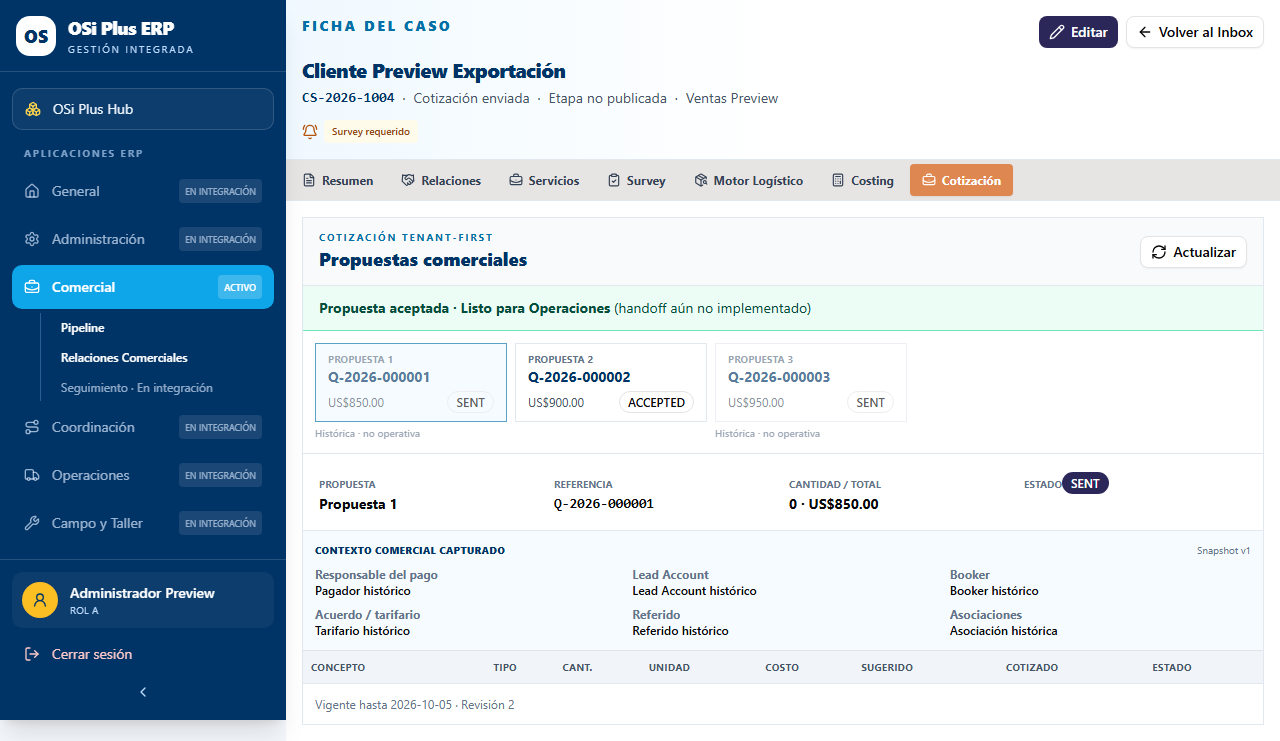
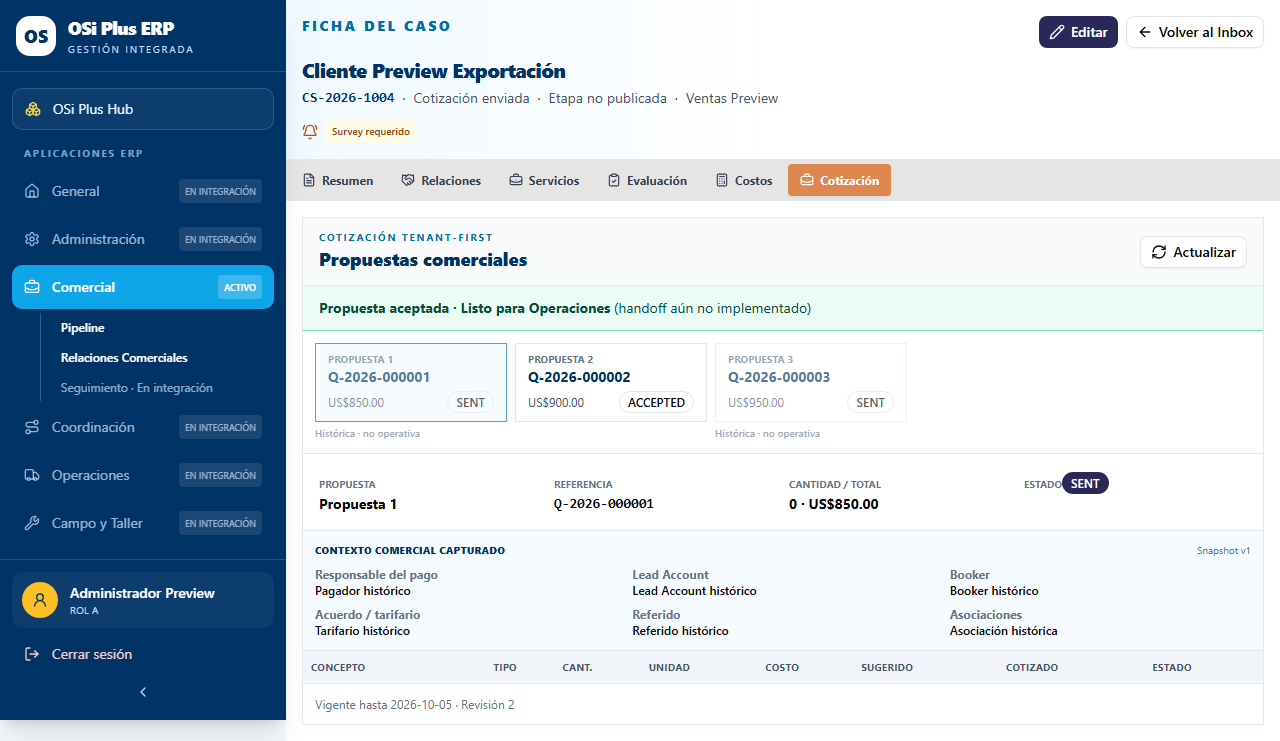
test(preview): guard transversal logistics navigation

Changed region(s): [[0.5, 0.2173, 0.8125, 0.2794]]

diff --git a/tests/v17-logistics-engine/logistics-engine.spec.ts b/tests/v17-logistics-engine/logistics-engine.spec.ts
@@ -1,10 +1,50 @@
 import { expect, test, type Page } from "@playwright/test";
-const CASE_REF = "038f6d8f-8d11-4f39-8a2d-1b6c7e8f9012"; const MEMBERSHIP_REF = "048f6d8f-8d11-4f39-8a2d-1b6c7e8f9012"; const PLAN_REF = "138f6d8f-8d11-4f39-8a2d-1b6c7e8f9012"; const REVISION_REF = "238f6d8f-8d11-4f39-8a2d-1b6c7e8f9012"; const ITEM_REF = "338f6d8f-8d11-4f39-8a2d-1b6c7e8f9012"; const CALC_REF = "438f6d8f-8d11-4f39-8a2d-1b6c7e8f9012";
+
+const CASE_REF = "018f6d8f-8d11-4f39-8a2d-1b6c7e8f9012";
+const MEMBERSHIP_REF = "028f6d8f-8d11-4f39-8a2d-1b6c7e8f9012";
 const logisticsPermissions = ["logistics:plan:view", "logistics:plan:calculate", "logistics:plan:publish", "logistics:plan:tenant", "logistics:plan:override", "logistics:plan:resolve", "logistics:rules:view", "logistics:rules:manage"];
-async function session(page: Page, options: { deny?: boolean; admin?: boolean } = {}) { const permissions = options.deny ? ["pipeline:view"] : ["pipeline:view", ...logisticsPermissions, ...(options.admin ? ["membership:view", "membership:update:role", "membership:update:permissions", "membership:update:status"] : [])]; const deniedPermissions = options.deny ? ["logistics:plan:view"] : []; await page.addInitScript(({ membershipRef }) => { localStorage.setItem("osi-plus.token", "synthetic.logistics.token"); localStorage.setItem("osi-plus.session", JSON.stringify({ name: "Logística sintética", role: "A", membershipRef, memberships: [{ membershipRef, tenantName: "Tenant sintético", role: "A", preferred: true }] })); }, { membershipRef: MEMBERSHIP_REF }); await page.route("**/api/auth/me", (route) => route.fulfill({ status: 200, contentType: "application/json", body: JSON.stringify({ ok: true, user: { name: "Logística sintética", role: "A", status: "ACTIVE", permissions, deniedPermissions, membership: { membershipRef: MEMBERSHIP_REF, tenantName: "Tenant sintético", role: "A" }, memberships: [{ membershipRef: MEMBERSHIP_REF, tenantName: "Tenant sintético", role: "A", preferred: true }] } }) })); }
-async function crm(page: Page) { const headers = { "Cache-Control": "private, no-store", Vary: "Authorization, Origin" }; const byStatus = Object.fromEntries(["NEW_INBOX", "AWAITING_ICP", "GOVERNANCE_CONFIRMED", "REQUIREMENTS_CONFIRMED", "SURVEY_PLANNING", "SURVEY_SCHEDULED", "SURVEY_COMPLETED", "CRATING_ESTIMATE_PENDING", "PRICING_IN_PROGRESS", "QUOTE_DRAFT", "INTERNAL_REVIEW", "QUOTE_SENT", "NEGOTIATION", "WON", "LOST", "CHANGE_CONTROL", "APPROVED", "OPS_HANDOFF"].map((status) => [status, 0])); await page.route(/\/api\/crm\/pipeline-cases(?:\?.*)?$/, (route) => route.fulfill({ status: 200, contentType: "application/json", headers, body: JSON.stringify({ ok: true, data: [], total: 0, page: 1, pageSize: 25 }) })); await page.route("**/api/crm/pipeline-summary", (route) => route.fulfill({ status: 200, contentType: "application/json", headers, body: JSON.stringify({ ok: true, data: { total: 0, assigned: 0, unassigned: 0, byStatus, sla: { overdue: null, basis: "UNAVAILABLE" } } }) })); await page.route("**/api/crm/pipeline-cases/**", (route) => route.fulfill({ status: 200, contentType: "application/json", headers, body: JSON.stringify({ ok: true, data: { caseRef: CASE_REF, caseCode: "CS-2026-0701", version: 1, status: "SURVEY_COMPLETED", mode: "LOCAL", serviceType: "MOVING_LOCAL", customerType: "L4_PERSONAL", estimatedCbm: 20, requiresSurvey: true, surveyMethod: "PRESENCIAL", originLocation: "Origen estructurado", destinationLocation: "Destino estructurado", destinationContracted: true, assetsCount: 0, quoteCount: 0, eventCount: 2, client: { clientRef: "528f6d8f-8d11-4f39-8a2d-1b6c7e8f9012", displayName: "Cliente relacional", type: "INDIVIDUAL", status: "ACTIVE" }, owner: { displayName: "Logística sintética", isCurrentActor: true }, createdAt: "2026-09-08T12:00:00.000Z", updatedAt: "2026-09-08T12:00:00.000Z" } }) })); }
-const item = { itemRef: ITEM_REF, family: "LABOR", kind: "PACKER", label: "Empacadores", quantity: 2, unit: "persona", estimatedHours: 6, trips: null, requiredQuantity: 2, availableQuantity: null, reservedQuantity: 0, shortageQuantity: null, availability: "NOT_APPLICABLE", priceStatus: "NOT_APPLICABLE", source: "ADMIN_RULE", sourceVersion: 3 };
-const issue = { issueRef: "638f6d8f-8d11-4f39-8a2d-1b6c7e8f9012", code: "DISTANCE_PENDING", severity: "WARNING", family: "TRANSPORT", message: "La distancia continúa pendiente de una fuente autorizada.", source: "ROUTE", status: "OPEN", version: 1 };
-test("resumen, simulación, blockers, publicación y override auditable", async ({ page }) => { await session(page); await crm(page); let published = false; let overrideCalls = 0; await page.route(`**/api/logistics/plans/${CASE_REF}`, (route) => route.fulfill({ status: 200, contentType: "application/json", body: JSON.stringify({ ok: true, data: published ? { planRef: PLAN_REF, revisionRef: REVISION_REF, revision: 1, status: "PUBLISHED", logicalSha256: "a".repeat(64), publishedAt: "2026-09-08T12:00:00.000Z", items: [item], issues: [issue], overrides: [] } : null }) })); await page.route("**/api/logistics/plans/calculate", (route) => route.fulfill({ status: 201, contentType: "application/json", body: JSON.stringify({ ok: true, data: { calculationRef: CALC_REF, status: "VALID", inputHash: "b".repeat(64), resultHash: "c".repeat(64), availabilityObservedAt: "2026-09-08T12:00:00.000Z", result: { items: [item, { ...item, family: "MATERIAL", kind: "MATERIAL_REQUIREMENT", label: "Cartón", quantity: 8, unit: "UND", requiredQuantity: 8, availableQuantity: 6, reservedQuantity: 2, shortageQuantity: 4, availability: "UNAVAILABLE", source: "INVENTORY", sourceVersion: 1 }], issues: [{ ...issue, severity: "BLOCKER", code: "MATERIAL_SHORTAGE", message: "El inventario disponible no cubre el material requerido." }] } } }) })); await page.route("**/api/logistics/plans/publish", (route) => { published = true; return route.fulfill({ status: 201, contentType: "application/json", body: JSON.stringify({ ok: true, data: { planRef: PLAN_REF, revisionRef: REVISION_REF, revision: 1, status: "PUBLISHED", logicalSha256: "a".repeat(64), publishedAt: "2026-09-08T12:00:00.000Z", items: [item], issues: [issue], overrides: [] } }) }); }); await page.route("**/api/logistics/plans/overrides", async (route) => { const payload = route.request().postDataJSON(); expect(payload.revisionRef).toBe(REVISION_REF); expect(payload.itemRef).toBe(ITEM_REF); expect(payload.expectedSuggested).toEqual({ quantity: 2, estimatedHours: 6, trips: null }); expect(payload.finalValue).toEqual({ quantity: 3 }); expect(payload.reason).toBe("Necesidad operativa confirmada"); overrideCalls += 1; await route.fulfill({ status: 201, contentType: "application/json", body: JSON.stringify({ ok: true, data: { overrideRef: "538f6d8f-8d11-4f39-8a2d-1b6c7e8f9012" } }) }); }); await page.goto(`/commercial/cases/${CASE_REF}`); await page.getByRole("tab", { name: "Motor Logístico" }).click(); await expect(page.getByTestId("logistics-plan-panel")).toBeVisible(); await page.getByRole("button", { name: "Calcular" }).click(); await expect(page.getByText(/Simulación calculada/)).toBeVisible(); await expect(page.getByText("MATERIAL_SHORTAGE")).toBeVisible(); await page.getByRole("button", { name: "Publicar revisión" }).click(); await expect(page.getByText(/Plan publicado · revisión 1/)).toBeVisible(); await page.getByRole("button", { name: "Ajustar sugerencia" }).click(); await page.getByLabel("Cantidad final").fill("3"); await page.getByLabel("Justificación").fill("Necesidad operativa confirmada"); await page.getByRole("button", { name: "Registrar ajuste" }).click(); await expect(page.getByText(/Ajuste registrado/)).toBeVisible(); expect(overrideCalls).toBe(1); expect(await page.evaluate(() => document.documentElement.scrollWidth - document.documentElement.clientWidth)).toBeLessThanOrEqual(1); });
-test("Administración presenta y versiona reglas compactas por familia", async ({ page }) => { await session(page, { admin: true }); await page.route("**/api/admin/memberships**", (route) => route.fulfill({ status: 200, contentType: "application/json", body: JSON.stringify({ ok: true, data: [], total: 0, page: 1, pageSize: 20 }) })); let versioned = false; await page.route("**/api/logistics/rules", async (route) => { if (route.request().method() === "POST") { versioned = true; return route.fulfill({ status: 201, contentType: "application/json", body: JSON.stringify({ ok: true, data: { ruleRef: "938f6d8f-8d11-4f39-8a2d-1b6c7e8f9012", version: 3 } }) }); } return route.fulfill({ status: 200, contentType: "application/json", body: JSON.stringify({ ok: true, data: [{ ruleRef: "738f6d8f-8d11-4f39-8a2d-1b6c7e8f9012", seriesRef: "838f6d8f-8d11-4f39-8a2d-1b6c7e8f9012", family: "TRANSPORT", code: "TRUCK_BY_VOLUME", name: "Camión por volumen", priority: 100, specificity: 20, conditions: { modes: ["LOCAL"] }, result: { kind: "TRUCK", label: "Camión", quantity: 1 }, state: "ACTIVE", version: 2 }] }) }); }); await page.goto("/administration"); await expect(page.getByTestId("logistics-rules-admin")).toBeVisible(); await page.getByLabel("Familia logística").selectOption("TRANSPORT"); await expect(page.getByText("TRUCK_BY_VOLUME")).toBeVisible(); await page.getByRole("button", { name: "Nueva versión" }).click(); await expect(page.getByTestId("logistics-rule-form")).toBeVisible(); await page.getByRole("button", { name: "Crear nueva versión" }).click(); await expect.poll(() => versioned).toBe(true); });
-test("deny no monta el Motor ni solicita APIs logísticas", async ({ page }) => { await session(page, { deny: true }); await crm(page); let requests = 0; page.on("request", (request) => { if (new URL(request.url()).pathname.startsWith("/api/logistics/")) requests += 1; }); await page.goto(`/commercial/cases/${CASE_REF}`); await expect(page.getByRole("tab", { name: "Motor Logístico" })).toHaveCount(0); expect(requests).toBe(0); const chunks = await page.evaluate(() => performance.getEntriesByType("resource").map((entry) => entry.name).filter((name) => name.includes("LogisticsPlanPanel"))); expect(chunks).toHaveLength(0); });
+const headers = { "Cache-Control": "private, no-store", Vary: "Authorization, Origin" };
+
+async function session(page: Page, options: { deny?: boolean; admin?: boolean; withoutRules?: boolean } = {}) {
+  const permissions = options.deny ? ["pipeline:view"] : ["pipeline:view", ...(options.withoutRules ? [] : logisticsPermissions), ...(options.admin ? ["membership:view", "membership:update:role", "membership:update:permissions", "membership:update:status"] : [])];
+  const deniedPermissions = options.deny ? ["logistics:plan:view"] : [];
+  await page.addInitScript(({ membershipRef }) => { localStorage.setItem("osi-plus.token", "synthetic.logistics.token"); localStorage.setItem("osi-plus.session", JSON.stringify({ name: "Logística sintética", role: "A", membershipRef, memberships: [{ membershipRef, tenantName: "Tenant sintético", role: "A", preferred: true }] })); }, { membershipRef: MEMBERSHIP_REF });
+  await page.route("**/api/auth/me", (route) => route.fulfill({ status: 200, contentType: "application/json", body: JSON.stringify({ ok: true, user: { name: "Logística sintética", role: "A", status: "ACTIVE", permissions, deniedPermissions, membership: { membershipRef: MEMBERSHIP_REF, tenantName: "Tenant sintético", role: "A" }, memberships: [{ membershipRef: MEMBERSHIP_REF, tenantName: "Tenant sintético", role: "A", preferred: true }] } }) }));
+}
+
+async function crm(page: Page) {
+  const byStatus = Object.fromEntries(["NEW_INBOX", "AWAITING_ICP", "GOVERNANCE_CONFIRMED", "REQUIREMENTS_CONFIRMED", "SURVEY_PLANNING", "SURVEY_SCHEDULED", "SURVEY_COMPLETED", "CRATING_ESTIMATE_PENDING", "PRICING_IN_PROGRESS", "QUOTE_DRAFT", "INTERNAL_REVIEW", "QUOTE_SENT", "NEGOTIATION", "WON", "LOST", "CHANGE_CONTROL", "APPROVED", "OPS_HANDOFF"].map((status) => [status, 0]));
+  await page.route(/\/api\/crm\/pipeline-cases(?:\?.*)?$/, (route) => route.fulfill({ status: 200, contentType: "application/json", headers, body: JSON.stringify({ ok: true, data: [], total: 0, page: 1, pageSize: 25 }) }));
+  await page.route("**/api/crm/pipeline-summary", (route) => route.fulfill({ status: 200, contentType: "application/json", headers, body: JSON.stringify({ ok: true, data: { total: 0, assigned: 0, unassigned: 0, byStatus, sla: { overdue: null, basis: "UNAVAILABLE" } } }) }));
+  const detail = { caseRef: CASE_REF, caseCode: "CS-2026-0701", version: 1, status: "SURVEY_COMPLETED", mode: "LOCAL", serviceType: "MOVING_LOCAL", customerType: "L4_PERSONAL", estimatedCbm: 20, requiresSurvey: true, surveyMethod: "PRESENCIAL", originLocation: "Origen estructurado", destinationLocation: "Destino estructurado", destinationContracted: true, assetsCount: 0, quoteCount: 0, eventCount: 2, client: { clientRef: "528f6d8f-8d11-4f39-8a2d-1b6c7e8f9012", displayName: "Cliente relacional", type: "INDIVIDUAL", status: "ACTIVE" }, owner: { displayName: "Logística sintética", isCurrentActor: true }, createdAt: "2026-09-08T12:00:00.000Z", updatedAt: "2026-09-08T12:00:00.000Z" };
+  await page.route(`**/api/crm/pipeline-cases/${CASE_REF}`, (route) => route.fulfill({ status: 200, contentType: "application/json", headers, body: JSON.stringify({ ok: true, data: detail }) }));
+  await page.route(`**/api/crm/icp-v2/pipeline-cases/${CASE_REF}`, (route) => route.fulfill({ status: 200, contentType: "application/json", headers, body: JSON.stringify({ ok: true, data: { ...detail, volume: { status: "ESTIMATED", estimatedCbm: 20, source: "ICP" }, intakeChannel: "WEB", clientProfileType: "PERSONAL", requirementNotes: null, serviceDefinitionStatus: "DEFINED", surveyDecisionStatus: "DEFINED", ownerName: "Logística sintética", caseContact: { displayName: "Contacto sintético", phone: null, email: null }, route: { contractVersion: 2, revision: 1, destinationStatus: "CONFIRMED", origin: null, destination: null, additionalStops: [] } } }) }));
+}
+
+test("Comercial sólo consulta el resultado publicado y no monta un Motor operativo", async ({ page }) => {
+  await session(page); await crm(page); let writes = 0;
+  page.on("request", (request) => { const path = new URL(request.url()).pathname; if (path.startsWith("/api/logistics/") && request.method() !== "GET") writes += 1; });
+  await page.route(`**/api/logistics/plans/${CASE_REF}`, (route) => route.fulfill({ status: 200, contentType: "application/json", headers, body: JSON.stringify({ ok: true, data: { planRef: "318f6d8f-8d11-4f39-8a2d-1b6c7e8f9012", revisionRef: "328f6d8f-8d11-4f39-8a2d-1b6c7e8f9012", revision: 1, status: "PUBLISHED", logicalSha256: "a".repeat(64), publishedAt: "2026-09-08T12:00:00.000Z", items: [], issues: [], overrides: [] } }) }));
+  await page.goto(`/commercial/cases/${CASE_REF}`);
+  await expect(page.getByRole("tab", { name: "Motor Logístico" })).toHaveCount(0);
+  await expect(page.getByRole("button", { name: /Calcular|Publicar revisión|Ajustar sugerencia/ })).toHaveCount(0);
+  expect(writes).toBe(0); const chunks = await page.evaluate(() => performance.getEntriesByType("resource").map((entry) => entry.name).filter((name) => name.includes("LogisticsPlanPanel"))); expect(chunks).toHaveLength(0);
+});
+
+test("Administración presenta y versiona reglas compactas por familia", async ({ page }) => {
+  await session(page, { admin: true });
+  await page.route("**/api/admin/memberships**", (route) => route.fulfill({ status: 200, contentType: "application/json", body: JSON.stringify({ ok: true, data: [], total: 0, page: 1, pageSize: 20 }) }));
+  let versioned = false;
+  await page.route("**/api/logistics/rules", async (route) => { if (route.request().method() === "POST") { versioned = true; return route.fulfill({ status: 201, contentType: "application/json", body: JSON.stringify({ ok: true, data: { ruleRef: "938f6d8f-8d11-4f39-8a2d-1b6c7e8f9012", version: 3 } }) }); } return route.fulfill({ status: 200, contentType: "application/json", body: JSON.stringify({ ok: true, data: [{ ruleRef: "738f6d8f-8d11-4f39-8a2d-1b6c7e8f9012", seriesRef: "838f6d8f-8d11-4f39-8a2d-1b6c7e8f9012", family: "TRANSPORT", code: "TRUCK_BY_VOLUME", name: "Camión por volumen", priority: 100, specificity: 20, conditions: { modes: ["LOCAL"] }, result: { kind: "TRUCK", label: "Camión", quantity: 1 }, state: "ACTIVE", version: 2 }] }) }); });
+  await page.goto("/administration"); await expect(page.getByRole("link", { name: "Motor Logístico" })).toBeVisible(); await expect(page.getByTestId("logistics-rules-admin")).toBeVisible(); await page.getByLabel("Familia logística").selectOption("TRANSPORT"); await expect(page.getByText("TRUCK_BY_VOLUME")).toBeVisible(); await page.getByRole("button", { name: "Nueva versión" }).click(); await page.getByRole("button", { name: "Crear nueva versión" }).click(); await expect.poll(() => versioned).toBe(true);
+});
+
+test("deny no monta el Motor ni solicita APIs logísticas", async ({ page }) => {
+  await session(page, { deny: true }); await crm(page); let requests = 0; page.on("request", (request) => { if (new URL(request.url()).pathname.startsWith("/api/logistics/")) requests += 1; });
+  await page.goto(`/commercial/cases/${CASE_REF}`); await expect(page.getByRole("tab", { name: "Motor Logístico" })).toHaveCount(0); expect(requests).toBe(0); const chunks = await page.evaluate(() => performance.getEntriesByType("resource").map((entry) => entry.name).filter((name) => name.includes("LogisticsPlanPanel") || name.includes("LogisticsRulesAdmin"))); expect(chunks).toHaveLength(0);
+});
+
+test("administrador sin logistics rules no descarga ni consulta el workspace", async ({ page }) => {
+  await session(page, { admin: true, withoutRules: true }); await page.route("**/api/admin/memberships**", (route) => route.fulfill({ status: 200, contentType: "application/json", body: JSON.stringify({ ok: true, data: [], total: 0, page: 1, pageSize: 20 }) })); let requests = 0; page.on("request", (request) => { if (new URL(request.url()).pathname.startsWith("/api/logistics/")) requests += 1; });
+  await page.goto("/administration"); await expect(page.getByRole("link", { name: "Motor Logístico" })).toHaveCount(0); expect(requests).toBe(0); const chunks = await page.evaluate(() => performance.getEntriesByType("resource").map((entry) => entry.name).filter((name) => name.includes("LogisticsRulesAdmin"))); expect(chunks).toHaveLength(0);
+});

diff --git a/tests/v17-consolidated-preview/consolidated-preview.spec.ts b/tests/v17-consolidated-preview/consolidated-preview.spec.ts
@@ -30,8 +30,8 @@ const syntheticCases = [
 const icpDetail = { caseRef: CASE_REF, caseCode: "CS-2026-1004", status: "QUOTE_SENT", version: 4, mode: "EXPORT", serviceType: "INTERNATIONAL_MOVE", volume: { status: "PUBLISHED_SURVEY", estimatedCbm: 18.4, source: "SURVEY" }, requiresSurvey: true, surveyMethod: "PRESENCIAL", intakeChannel: "REFERRED", clientProfileType: "CORPORATE", requirementNotes: "Exportación sintética con Crating", serviceDefinitionStatus: "DEFINED", surveyDecisionStatus: "DEFINED", ownerName: "Ventas Preview", caseContact: { displayName: "Contacto Preview", phone: "+18095550100", email: "contacto@example.invalid" }, client: { clientRef: CLIENT_REF, displayName: "Cliente Preview Exportación", type: "ORGANIZATION", status: "ACTIVE" }, route: { contractVersion: 2, revision: 1, destinationStatus: "CONFIRMED", origin: { countryCode: "DO", provinceState: "Distrito Nacional", cityMunicipality: "Santo Domingo", sector: "Piantini", streetAndNumber: "Origen sintético", buildingResidential: null, floorUnit: null, arrivalReference: null, locationContactName: null, locationContactPhone: null }, destination: { countryCode: "ES", provinceState: "Madrid", cityMunicipality: "Madrid", sector: null, streetAndNumber: "Destino sintético", buildingResidential: null, floorUnit: null, arrivalReference: null, locationContactName: null, locationContactPhone: null }, additionalStops: [] }, createdAt: "2026-09-05T12:00:00.000Z", updatedAt: "2026-09-05T13:00:00.000Z" };
 const serviceWorkspace = { caseRef: CASE_REF, mode: "EXPORT", selection: { selectionRef: "138f6d8f-8d11-4f39-8a2d-1b6c7e8f9012", revision: 2, mode: "EXPORT", source: "MANUAL", defaultCombinationRef: null, primary: { serviceRef: PRIMARY_REF, code: "EXPORT_MOVE", name: "Mudanza internacional", category: "Mudanzas", catalogVersion: 1, source: "CATALOG" }, complementaries: [{ serviceRef: "168f6d8f-8d11-4f39-8a2d-1b6c7e8f9012", code: "CRATING", name: "Crating", category: "Empaque", catalogVersion: 1, source: "CATALOG" }], otherServices: [], historyCount: 2 }, primaries: [], allowedComplementaries: [], defaults: [] };
 const surveyAssignment = { assignmentRef: "238f6d8f-8d11-4f39-8a2d-1b6c7e8f9012", caseRef: CASE_REF, caseCode: "CS-2026-1004", clientDisplayName: "Cliente Preview Exportación", evaluator: { displayName: "Evaluador Preview" }, scheduledStart: "2026-09-05T12:00:00.000Z", scheduledEnd: null, status: "COMPLETED", arrivalAt: "2026-09-05T12:00:00.000Z", punctualityConfirmedAt: "2026-09-05T12:01:00.000Z", context: { origin: "Santo Domingo", destination: "Madrid", services: [{ name: "Mudanza internacional" }] }, instruction: null, version: 5, surveyRef: "248f6d8f-8d11-4f39-8a2d-1b6c7e8f9012" };
-const schedulingWorkspace = { caseRef: CASE_REF, caseCode: "CS-2026-1004", routeVersion: 2, decision: { decisionRef: "218f6d8f-8d11-4f39-8a2d-1b6c7e8f9012", method: "IN_PERSON", state: "COMPLETED", informationSource: "EVALUATOR", rationaleCode: "PREVIEW_SYNTHETIC", routeVersion: 2, version: 1, createdAt: "2026-09-05T11:00:00.000Z" }, assignment: { assignmentRef: surveyAssignment.assignmentRef, scheduledStart: surveyAssignment.scheduledStart, scheduledEnd: null, evaluator: surveyAssignment.evaluator, slotKey: "AFTERNOON", profile: "INTERIOR_SHORT", zoneCode: "PREVIEW", status: "COMPLETED", version: 5, instruction: null, routeStale: false, surveyRef: surveyAssignment.surveyRef }, policy: null, schedulingContext: { profile: "INTERIOR_SHORT", zoneCode: "PREVIEW", distanceStatus: "KNOWN" }, availability: null, evaluatorCandidates: [], visitFee: null, communications: [], history: [], publication: { publicationRef: "228f6d8f-8d11-4f39-8a2d-1b6c7e8f9012", publishedAt: "2026-09-05T13:00:00.000Z", evaluatorDisplayName: "Evaluador Preview", totals: { totalVolumeM3: 18.4 }, needs: { flaggedItems: 1 }, access: [] } };
-const logistics = { planRef: "338f6d8f-8d11-4f39-8a2d-1b6c7e8f9012", revisionRef: "348f6d8f-8d11-4f39-8a2d-1b6c7e8f9012", revision: 2, status: "PUBLISHED", logicalSha256: "a".repeat(64), publishedAt: "2026-09-05T14:00:00.000Z", items: [{ itemRef: "358f6d8f-8d11-4f39-8a2d-1b6c7e8f9012", family: "MATERIAL", kind: "PACKING", label: "Material de empaque derivado", quantity: 12, unit: "unidad", estimatedHours: null, trips: null, requiredQuantity: 12, availableQuantity: 8, reservedQuantity: 0, shortageQuantity: 4, availability: "PARTIAL", priceStatus: "CONFIRMED", source: "RECIPE", sourceVersion: 1 }], issues: [], overrides: [] };
+const schedulingWorkspace = { caseRef: CASE_REF, caseCode: "CS-2026-1004", routeVersion: 2, decision: { decisionRef: "218f6d8f-8d11-4f39-8a2d-1b6c7e8f9012", method: "IN_PERSON", state: "COMPLETED", informationSource: "EVALUATOR", rationaleCode: "PREVIEW_SYNTHETIC", routeVersion: 2, version: 1, createdAt: "2026-09-05T11:00:00.000Z" }, assignment: { assignmentRef: surveyAssignment.assignmentRef, scheduledStart: surveyAssignment.scheduledStart, scheduledEnd: null, evaluator: surveyAssignment.evaluator, slotKey: "AFTERNOON", profile: "INTERIOR_SHORT", zoneCode: "PREVIEW", status: "COMPLETED", version: 5, instruction: null, routeStale: false, surveyRef: surveyAssignment.surveyRef }, policy: null, schedulingContext: { profile: "INTERIOR_SHORT", zoneCode: "PREVIEW", distanceStatus: "KNOWN", distanceKm: 18.5 }, availability: null, evaluatorCandidates: [], visitFee: null, communications: [], history: [], publication: { publicationRef: "228f6d8f-8d11-4f39-8a2d-1b6c7e8f9012", publishedAt: "2026-09-05T13:00:00.000Z", evaluatorDisplayName: "Evaluador Preview", totals: { totalVolumeM3: 18.4 }, needs: { flaggedItems: 1 }, access: [] } };
+const logistics = { planRef: "338f6d8f-8d11-4f39-8a2d-1b6c7e8f9012", revisionRef: "348f6d8f-8d11-4f39-8a2d-1b6c7e8f9012", revision: 2, status: "PUBLISHED", logicalSha256: "a".repeat(64), publishedAt: "2026-09-05T14:00:00.000Z", items: [{ itemRef: "358f6d8f-8d11-4f39-8a2d-1b6c7e8f9012", family: "ZONE", kind: "VISIT_ZONE", label: "Zona de visita", quantity: null, unit: null, estimatedHours: null, trips: null, requiredQuantity: null, availableQuantity: null, reservedQuantity: null, shortageQuantity: null, availability: null, priceStatus: null, source: "ADMIN_RULE", sourceVersion: 1, snapshot: { zoneType: "INTERIOR_SHORT", zoneCode: "PREVIEW" } }, { itemRef: "368f6d8f-8d11-4f39-8a2d-1b6c7e8f9012", family: "MATERIAL", kind: "PACKING", label: "Material de empaque derivado", quantity: 12, unit: "unidad", estimatedHours: null, trips: null, requiredQuantity: 12, availableQuantity: 8, reservedQuantity: 0, shortageQuantity: 4, availability: "PARTIAL", priceStatus: "CONFIRMED", source: "RECIPE", sourceVersion: 1 }], issues: [], overrides: [] };
 const costing = { revisionRef: COSTING_REF, revision: 1, status: "PUBLISHED", baseCurrency: "USD", logicalSha256: "b".repeat(64), publishedAt: "2026-09-05T15:00:00.000Z", totals: { ownCosts: "300", externalCosts: "200", disbursements: "50", risks: "0", currencyCompensation: "0", totalCost: "550", suggestedPrice: "750", expectedMarginBps: 2667 }, lines: [], issues: [], overrides: [] };
 const commercialContext = { commercialContextRef: "638f6d8f-8d11-4f39-8a2d-1b6c7e8f9012", seriesRef: "648f6d8f-8d11-4f39-8a2d-1b6c7e8f9012", version: 2, commercialRelationshipRef: null, payerRef: "658f6d8f-8d11-4f39-8a2d-1b6c7e8f9012", pricingAgreementRef: "668f6d8f-8d11-4f39-8a2d-1b6c7e8f9012", referralAgreementRef: "678f6d8f-8d11-4f39-8a2d-1b6c7e8f9012", agreement: { pricingAgreementRef: "668f6d8f-8d11-4f39-8a2d-1b6c7e8f9012", version: 1, validFrom: "2026-01-01T00:00:00.000Z", validTo: null, tariff: { tariffRef: "688f6d8f-8d11-4f39-8a2d-1b6c7e8f9012", code: "CORP-USD", name: "Tarifario corporativo", version: 1, currency: "USD" }, adjustments: [{ adjustmentRef: "698f6d8f-8d11-4f39-8a2d-1b6c7e8f9012", kind: "DISCOUNT", calculationType: "PERCENTAGE", value: 8, base: "SERVICE_TOTAL", reasonCode: "CORPORATE", authorized: true, validFrom: null, validTo: null }] }, referral: { referralAgreementRef: "678f6d8f-8d11-4f39-8a2d-1b6c7e8f9012", version: 1, calculationType: "PERCENTAGE", value: 3, currency: "USD", reference: "Referido Preview", validFrom: null, validTo: null }, parties: [{ role: "COMPANY", entityRef: "718f6d8f-8d11-4f39-8a2d-1b6c7e8f9012", relationshipRef: null, displayName: "Empresa Preview", kind: "COMPANY", validFrom: null, validTo: null, contacts: [] }, { role: "LEAD_ACCOUNT", entityRef: "728f6d8f-8d11-4f39-8a2d-1b6c7e8f9012", relationshipRef: null, displayName: "Lead Account Preview", kind: "LEAD_ACCOUNT", validFrom: "2026-01-01T00:00:00.000Z", validTo: null, contacts: [{ contactRef: "738f6d8f-8d11-4f39-8a2d-1b6c7e8f9012", displayName: "Contacto Lead Preview", position: "Coordinación", preferredChannel: "EMAIL" }] }, { role: "BOOKER", entityRef: "748f6d8f-8d11-4f39-8a2d-1b6c7e8f9012", relationshipRef: null, displayName: "Booker Preview", kind: "PERSON", validFrom: null, validTo: null, contacts: [{ contactRef: "758f6d8f-8d11-4f39-8a2d-1b6c7e8f9012", displayName: "Booker Preview", position: "Booker", preferredChannel: "PHONE" }] }, { role: "PAYER", entityRef: "658f6d8f-8d11-4f39-8a2d-1b6c7e8f9012", relationshipRef: null, displayName: "Pagador Preview", kind: "COMPANY", validFrom: null, validTo: null, contacts: [] }, { role: "APPROVER", entityRef: "768f6d8f-8d11-4f39-8a2d-1b6c7e8f9012", relationshipRef: null, displayName: "Aprobador actual distinto", kind: "PERSON", validFrom: null, validTo: null, contacts: [] }], associations: [{ membershipRef: "778f6d8f-8d11-4f39-8a2d-1b6c7e8f9012", associationName: "Asociación Preview", membershipNumber: "SYNTH-001", validFrom: null, validTo: null }], instructions: [{ instructionRef: "788f6d8f-8d11-4f39-8a2d-1b6c7e8f9012", category: "COMMERCIAL", priority: 10, content: { text: "Copiar al Booker en comunicaciones." } }], logicalSha256: "d".repeat(64) };
 const proposals = [1, 2, 3].map((position) => ({ proposalRef: `${position}58f6d8f-8d11-4f39-8a2d-1b6c7e8f9012`, reference: `Q-2026-00000${position}`, position, state: position === 2 ? "ACCEPTED" : "SENT", revisionRef: `${position}68f6d8f-8d11-4f39-8a2d-1b6c7e8f9012`, revision: 2, proposalName: `Propuesta ${position}`, costingRevisionRef: COSTING_REF, currency: "USD", issueDate: "2026-09-05", validUntil: "2026-10-05", totals: { totalQuotedPrice: 800 + position * 50 }, lines: [], issues: [], logicalSha256: "c".repeat(64), commercialContext: { company: null, leadAccount: { displayName: "Lead Account histórico", reference: "opaque", kind: "LEAD_ACCOUNT", version: 1, validFrom: null, validUntil: null, conditions: null }, booker: { displayName: "Booker histórico", reference: "opaque", kind: "BOOKER", version: 1, validFrom: null, validUntil: null, conditions: null }, tariff: { displayName: "Tarifario histórico", reference: "opaque", kind: "PRICING_AGREEMENT", version: 1, validFrom: null, validUntil: null, conditions: null }, associations: ["Asociación histórica"], referral: { displayName: "Referido histórico", reference: "opaque", kind: "REFERRAL_AGREEMENT", version: 1, validFrom: null, validUntil: null, conditions: null }, commissionContext: null }, payer: { displayName: "Pagador histórico", reference: "opaque", kind: "COMPANY", sourceVersion: 1, validFrom: null, validUntil: null, conditions: null } }));
@@ -61,15 +61,15 @@ async function mockDomains(page: Page) {
 
 test("recorre el caso desde ICP hasta Cotización en una sola Ficha", async ({ page }, testInfo) => {
   await authorize(page); await mockDomains(page); await page.goto(`/commercial/cases/${CASE_REF}`);
-  const tabs = page.getByRole("tab"); await expect(tabs).toHaveCount(7); expect(await tabs.allTextContents()).toEqual(["Resumen", "Relaciones", "Servicios", "Survey", "Motor Logístico", "Costing", "Cotización"]);
+  const tabs = page.getByRole("tab"); await expect(tabs).toHaveCount(6); expect(await tabs.allTextContents()).toEqual(["Resumen", "Relaciones", "Servicios", "Evaluación", "Costos", "Cotización"]);
   await expect(page.getByTestId("case-workflow-progress")).toContainText("ICP"); await expect(page.getByTestId("ready-for-operations")).toBeVisible();
   const evidence = resolve(process.cwd(), ".artifacts", "v17-consolidated-preview-10a");
   if (testInfo.project.name === "chromium-desktop" || testInfo.project.name === "chromium-mobile") { mkdirSync(evidence, { recursive: true }); await page.screenshot({ path: resolve(evidence, `summary-${testInfo.project.name}.png`), fullPage: true }); }
   await page.getByRole("tab", { name: "Relaciones" }).click(); await expect(page.getByText("Responsable del pago")).toBeVisible(); await expect(page.getByText("Pagador Preview")).toBeVisible();
   await page.getByRole("tab", { name: "Servicios" }).click(); await expect(page.getByTestId("case-services-panel")).toBeVisible();
-  await page.getByRole("tab", { name: "Survey" }).click(); await expect(page.getByTestId("survey-scheduling-workspace")).toContainText("Publicado"); await expect(page.getByTestId("scheduling-commercial-context")).toContainText("Booker Preview");
-  await page.getByRole("tab", { name: "Motor Logístico" }).click(); await expect(page.getByTestId("logistics-plan-panel")).toBeVisible();
-  await page.getByRole("tab", { name: "Costing" }).click(); await expect(page.getByTestId("costing-panel")).toBeVisible();
+  await page.getByRole("tab", { name: "Evaluación" }).click(); await expect(page.getByTestId("survey-scheduling-workspace")).toContainText("Publicado"); await expect(page.getByTestId("scheduling-commercial-context")).toContainText("Booker Preview"); await expect(page.getByTestId("logistics-visit-summary")).toContainText("18.5 km"); await expect(page.getByTestId("logistics-visit-summary")).toContainText("Lead Account Preview");
+  await expect(page.getByRole("tab", { name: "Motor Logístico" })).toHaveCount(0);
+  await page.getByRole("tab", { name: "Costos" }).click(); await expect(page.getByTestId("costing-panel")).toBeVisible();
   await page.getByRole("tab", { name: "Cotización" }).click(); await expect(page.getByTestId("quote-ready-for-operations")).toBeVisible(); await expect(page.getByTestId("quote-commercial-snapshot")).toContainText("Pagador histórico"); await expect(page.getByTestId("quote-commercial-snapshot")).not.toContainText("Aprobador actual distinto"); await expect(page.getByRole("button", { name: "Registrar aceptación" })).toHaveCount(0);
   expect(await page.evaluate(() => document.documentElement.scrollWidth - document.documentElement.clientWidth)).toBeLessThanOrEqual(1);
   if (testInfo.project.name === "chromium-desktop" || testInfo.project.name === "chromium-mobile") await page.screenshot({ path: resolve(evidence, `quote-${testInfo.project.name}.png`), fullPage: true });

diff --git a/tests/v17-scheduling/scheduling.spec.ts b/tests/v17-scheduling/scheduling.spec.ts
@@ -37,7 +37,7 @@ function workspace(communications = 0) {
     decision: { decisionRef: DECISION_REF, method: "IN_PERSON", state: "SCHEDULED", informationSource: "COMMERCIAL", rationaleCode: null, routeVersion: 1, version: 2, createdAt: "2026-09-11T12:00:00.000Z" },
     assignment: { assignmentRef: ASSIGNMENT_REF, scheduledStart: "2026-09-14T13:00:00.000Z", scheduledEnd: "2026-09-14T16:00:00.000Z", evaluator: { displayName: "Evaluadora sintética" }, slotKey: "MORNING", profile: "METRO", zoneCode: "METRO_SANTO_DOMINGO", status: "ASSIGNED", version: 1, instruction: "Confirmar acceso", routeStale: false, surveyRef: null },
     policy: { policyRef: "638f6d8f-8d11-4f39-8a2d-1b6c7e8f9012", version: 1, timezone: "America/Santo_Domingo", profiles: [{ code: "METRO", dailyCapacity: 2 }], slots: [{ profile: "METRO", key: "MORNING", label: "Mañana", startTime: "09:00", endTime: "12:00", capacity: 1 }, { profile: "METRO", key: "AFTERNOON", label: "Tarde", startTime: "14:00", endTime: "16:30", capacity: 1 }], closedWeekdays: [0], closedDates: [], saturdayRequiresApproval: true },
-    schedulingContext: { profile: "METRO", zoneCode: "METRO_SANTO_DOMINGO", distanceStatus: "KNOWN" },
+    schedulingContext: { profile: "METRO", zoneCode: "METRO_SANTO_DOMINGO", distanceStatus: "KNOWN", distanceKm: 15 },
     availability: { date: "2026-09-14", profile: "METRO", dayOccupied: 1, dayCapacity: 2, closed: false, saturdayApprovalRequired: false, slots: [{ key: "MORNING", occupied: 1, capacity: 1, available: false }, { key: "AFTERNOON", occupied: 0, capacity: 1, available: true }] },
     evaluatorCandidates: [{ membershipRef: MEMBERSHIP_REF, displayName: "Evaluadora sintética", capabilities: ["CAN_PERFORM_IN_PERSON_SURVEY"] }],
     visitFee: null,
@@ -66,7 +66,7 @@ test("integra Evaluación, Agenda, Visit Fee, PIC e historial sin reescribir Sur
   await session(page); await crm(page); const mutations = await schedulingApi(page);
   const pageErrors: string[] = []; page.on("pageerror", (error) => pageErrors.push(error.message));
   await page.goto(`/commercial/cases/${CASE_REF}`);
-  await page.getByRole("tab", { name: "Survey" }).click();
+  await page.getByRole("tab", { name: "Evaluación" }).click();
   await expect(page.getByTestId("survey-scheduling-workspace")).toBeVisible();
   await expect(page.getByRole("heading", { name: "Evaluación" })).toBeVisible();
   await expect(page.getByText("Evaluadora sintética · METRO · METRO_SANTO_DOMINGO · MORNING")).toBeVisible();
@@ -86,7 +86,7 @@ test("integra Evaluación, Agenda, Visit Fee, PIC e historial sin reescribir Sur
 
 test("viewer consulta agenda sin controles de gestión", async ({ page }) => {
   await session(page, "viewer"); await crm(page); await schedulingApi(page);
-  await page.goto(`/commercial/cases/${CASE_REF}`); await page.getByRole("tab", { name: "Survey" }).click();
+  await page.goto(`/commercial/cases/${CASE_REF}`); await page.getByRole("tab", { name: "Evaluación" }).click();
   await expect(page.getByTestId("survey-scheduling-workspace")).toBeVisible();
   await expect(page.getByRole("button", { name: "Reprogramar" })).toHaveCount(0);
   await expect(page.getByRole("button", { name: "PIC cliente" })).toHaveCount(0);
@@ -96,7 +96,7 @@ test("deny prevalece y evita chunk y request de Scheduling", async ({ page }) =>
   await session(page, "deny"); await crm(page); let schedulingRequests = 0;
   page.on("request", (request) => { if (new URL(request.url()).pathname === "/api/crm/survey/scheduling") schedulingRequests += 1; });
   await page.goto(`/commercial/cases/${CASE_REF}`);
-  await expect(page.getByRole("tab", { name: "Survey" })).toHaveCount(0);
+  await expect(page.getByRole("tab", { name: "Evaluación" })).toHaveCount(0);
   expect(schedulingRequests).toBe(0);
   const chunks = await page.evaluate(() => performance.getEntriesByType("resource").map((entry) => entry.name).filter((name) => name.includes("SurveyCasePanel")));
   expect(chunks).toHaveLength(0);

diff --git a/docs/V17-COMMERCIAL-PREVIEW-CORRECTIONS-12C-RESULT.md b/docs/V17-COMMERCIAL-PREVIEW-CORRECTIONS-12C-RESULT.md
@@ -1,0 +1,27 @@
+# V17-COMMERCIAL-PREVIEW-CORRECTIONS-12C — Resultado
+
+## Alcance implementado
+
+- La Ficha Comercial ya no importa ni presenta `LogisticsPlanPanel` ni un tab `Motor Logístico`.
+- El flujo visible conserva `Resumen`, `Servicios`, `Evaluación`, `Costos` y `Cotización`; `Relaciones` permanece como contexto transversal ya aprobado en 12A/12B.
+- `Evaluación` consulta la última revisión publicada del Motor y presenta zona, distancia, perfil de agenda, Visit Fee, necesidades publicadas y advertencias, sin fórmulas ni acciones de cálculo/publicación.
+- Los blockers publicados muestran descripción, causa sanitizada y el área de autoridad donde deben resolverse.
+- Administración reutiliza `LogisticsRulesAdmin` de 07A bajo `Administración → Motor Logístico`, detrás de `isLogisticsUiEnabled()` y `logistics:rules:view` antes del límite lazy.
+- Costing continúa recibiendo la revisión publicada del Motor; no calcula logística.
+
+## Autoridades preservadas
+
+- No cambió el dominio, contrato HTTP, reglas ni persistencia del Motor 07A.
+- No cambió Prisma ni ninguna migración; el repositorio conserva 31 migraciones.
+- Scheduling publica en su DTO la distancia ya resuelta por el Motor; no deriva ni recalcula la distancia.
+- El contexto de Relaciones Comerciales se muestra junto al resultado publicado, pero 12C no inventa acuerdos ni altera el algoritmo de matching del Motor.
+
+## Guardias
+
+`guard:v17-commercial-preview-corrections` impide reintroducir el tab o workspace operativo en Comercial, cálculos en Scheduling/Costing, fetches dentro del componente presentacional, montaje administrativo sin permiso y modos Production. Las guardias consolidadas y de 07A fueron reconciliadas con la nueva navegación.
+
+## Riesgo y siguiente frontera
+
+12C consume automáticamente una revisión publicada al abrir una evaluación presencial. La creación/publicación automática de una revisión cuando todavía no existe requiere una futura orquestación transaccional explícita; no se añadió aquí porque implicaría cambiar comportamiento del Motor fuera del alcance autorizado. Tampoco se añadió el contexto comercial al algoritmo de reglas: sólo se presenta contexto ya publicado y se conserva la regla de no inferir acuerdos.
+
+Production, Plantillas/Comunicaciones y 13A quedan fuera de este lote.
